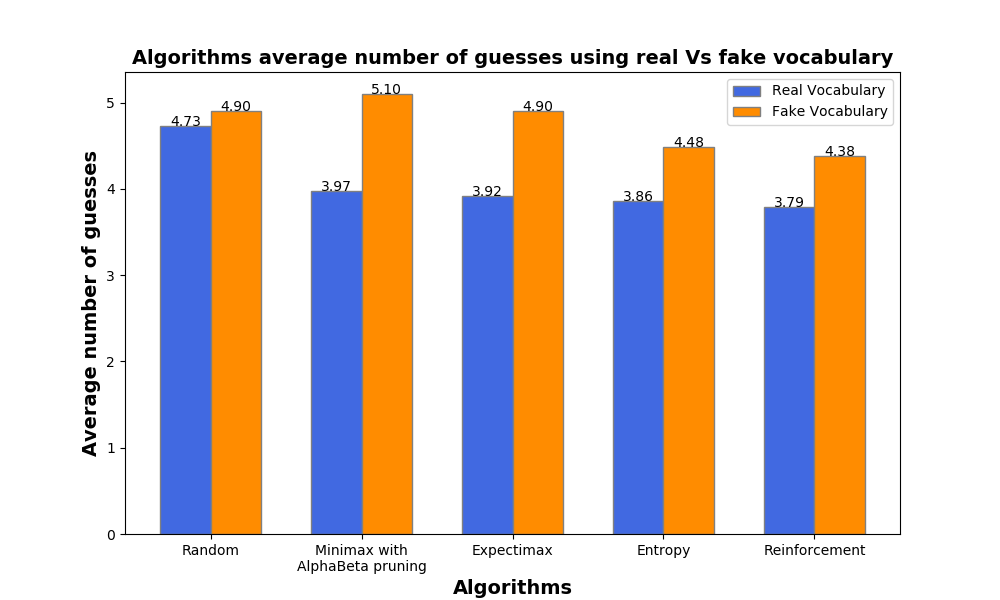
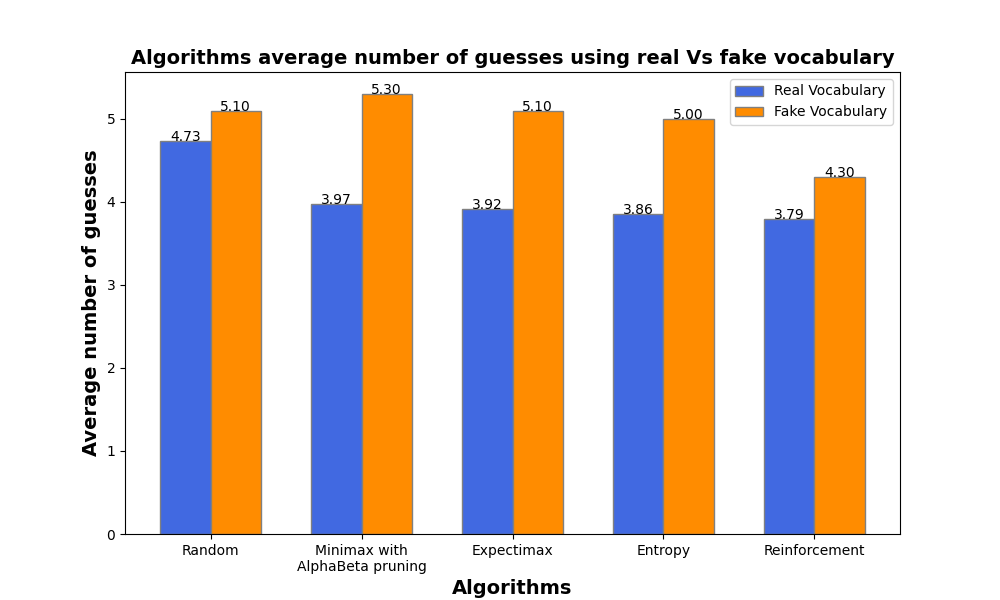
More graphs

diff --git a/algorithms_evaluation.py b/algorithms_evaluation.py
@@ -14,7 +14,7 @@ def plot_avg_guesses(algorithm_names, avg_results, game_type, num_games):
     for i in range(len(algorithm_names)):
         plt.text(i, avg_results[i], "{:.2f}".format(avg_results[i]), ha='center')
     plt.title(f"Algorithms average number of guesses on {game_type} game for {num_games} games",
-              fontweight='bold', fontsize=14)
+        fontweight='bold', fontsize=14)
     plt.ylabel("Average number of guesses", fontweight='bold', fontsize=14)
     plt.xlabel("Algorithms", fontweight='bold', fontsize=14)
     plt.savefig(f"data/plots/{game_type}_avg_guesses")
@@ -46,7 +46,7 @@ def plot_num_guesses(algorithm_names, num_guesses, game_type):
 
 
 def plot_real_vs_fake(algorithm_names, results_real, results_fake):
-    bar_width = 1/3
+    bar_width = 1 / 3
     plt.subplots(figsize=(10, 6))
 
     # Set position of bar on X axis
@@ -58,12 +58,12 @@ def plot_real_vs_fake(algorithm_names, results_real, results_fake):
         plt.text(i, results_real[i], "{:.2f}".format(results_real[i]), ha='center')
     plt.bar(br2, results_fake, color='darkorange', width=bar_width, edgecolor='grey', label='Fake Vocabulary')
     for i in range(len(results_fake)):
-        plt.text(i+0.333, results_fake[i], "{:.2f}".format(results_fake[i]), ha='center')
+        plt.text(i + 0.333, results_fake[i], "{:.2f}".format(results_fake[i]), ha='center')
 
     plt.title("Algorithms average number of guesses using real Vs fake vocabulary", fontweight='bold', fontsize=14)
     plt.xlabel("Algorithms", fontweight='bold', fontsize=14)
     plt.ylabel("Average number of guesses", fontweight='bold', fontsize=14)
-    plt.xticks([r + bar_width/2 for r in range(len(results_real))], algorithm_names)
+    plt.xticks([r + bar_width / 2 for r in range(len(results_real))], algorithm_names)
     plt.legend()
     plt.savefig("data/plots/real_vs_fake_avg_guesses")
     plt.show()
@@ -76,10 +76,10 @@ def plot_reinforcement_results():
     plt.bar(methods, results, color='royalblue')
     for i in range(len(results)):
         plt.text(i, results[i], "{:.2f}".format(results[i]), ha='center')
-    plt.title("Different RL methods results on Wordle game",fontweight='bold', fontsize=14)
+    plt.title("Different RL methods results on Wordle game", fontweight='bold', fontsize=14)
     plt.ylabel("Average number of guesses", fontweight='bold', fontsize=14)
     plt.xlabel("Reinforcement techniques", fontweight='bold', fontsize=14)
-    plt.ylim([0,6])
+    plt.ylim([0, 6])
     plt.savefig(f"data/plots/Reinforcement_results")
     plt.show()
 
@@ -91,10 +91,10 @@ def plot_entropy_results():
     plt.bar(methods, results, color='royalblue')
     for i in range(len(results)):
         plt.text(i, results[i], "{:.2f}".format(results[i]), ha='center')
-    plt.title("Entropy based techniques results on Wordle game",fontweight='bold', fontsize=14)
+    plt.title("Entropy based techniques results on Wordle game", fontweight='bold', fontsize=14)
     plt.ylabel("Average number of guesses", fontweight='bold', fontsize=14)
     plt.xlabel("Reinforcement techniques", fontweight='bold', fontsize=14)
-    plt.ylim([0,6])
+    plt.ylim([0, 6])
     plt.savefig(f"data/plots/Entropy_results")
     plt.show()
 
@@ -103,7 +103,7 @@ def plot_adversarial_results():
     methods = ["Number of remaining words", "Game turn number", "Summing the game score"]
     minimax_results = [3.9, 3.99, 4.08]
     expectimax_results = [3.86, 3.84, 3.93]
-    bar_width = 1/3
+    bar_width = 1 / 3
     plt.subplots(figsize=(10, 6))
 
     # Set position of bar on X axis
@@ -115,13 +115,13 @@ def plot_adversarial_results():
         plt.text(i, minimax_results[i], "{:.2f}".format(minimax_results[i]), ha='center')
     plt.bar(br2, expectimax_results, color='darkorange', width=bar_width, edgecolor='grey', label='Expectimax')
     for i in range(len(expectimax_results)):
-        plt.text(i+0.333, expectimax_results[i], "{:.2f}".format(expectimax_results[i]), ha='center')
+        plt.text(i + 0.333, expectimax_results[i], "{:.2f}".format(expectimax_results[i]), ha='center')
 
     plt.title("Algorithms average number of guesses using real Vs fake vocabulary", fontweight='bold', fontsize=14)
     plt.xlabel("Algorithms", fontweight='bold', fontsize=14)
     plt.ylabel("Average number of guesses", fontweight='bold', fontsize=14)
-    plt.xticks([r + bar_width/2 for r in range(len(minimax_results))], methods)
-    plt.ylim([0,6])
+    plt.xticks([r + bar_width / 2 for r in range(len(minimax_results))], methods)
+    plt.ylim([0, 6])
     plt.legend()
     plt.savefig("data/plots/Adversarial_guesses")
     plt.show()
@@ -130,8 +130,8 @@ def plot_adversarial_results():
 def evaluate_wordle(game: AbstractWordle, algorithms, algorithm_names, num_games, secret_words=None):
     avg_results = []
     win_percentage = []
-    if game.get_type() != GameType.BasicWordle:
-        if game.get_type() == GameType.FakeVocabularyWordle:
+    if game.get_type()!=GameType.BasicWordle:
+        if game.get_type()==GameType.FakeVocabularyWordle:
             with open('data/vocab_word_lists/fake_secret_12972.txt', 'r') as f:
                 secret_words = f.read().splitlines()
             secret_words = random.sample(secret_words, num_games)
@@ -151,7 +151,7 @@ def evaluate_absurdle(game: AbstractWordle, algorithms, algorithm_names):
     num_guesses = []
     for algorithm in algorithms:
         simulator = Simulator(game, algorithm)
-        if algorithm.type == AlgorithmType.Random:
+        if algorithm.type==AlgorithmType.Random:
             cum_stats = simulator.simulate_games(num_games=100, user_interface=False)
             num_guesses.append(cum_stats[1] / 100)
         else:
@@ -164,21 +164,36 @@ def evaluate_vocab(secret_words, legal_words, algorithms):
     vocabulary_sizes = list(range(1000, 12001, 1000)) + [12972]
     num_games = 100
     plt.figure(figsize=(10, 6))
-    for algorithm in algorithms:
-        avg_results = []
-        for vocab_size in vocabulary_sizes:
-            vocab_wordle = get_game(secret_words, legal_words, GameType.RealVocabularyWordle, real_size=vocab_size)
-            simulator = Simulator(vocab_wordle, algorithm)
-            cum_stats = simulator.simulate_games(num_games=num_games, user_interface=False)
-            avg_results.append(cum_stats[1] / num_games)
-            print(algorithm.type.value, ",", vocab_size, ",", avg_results[-1])
+    total_random = [5.96, 6, 6, 6, 6, 6, 6, 6, 6, 6, 6, 6, 6]
+    random = [3.52, 3.87, 4.14, 4.14, 4.26, 4.41, 4.41, 4.45, 4.44, 4.68, 4.51, 4.72, 4.8]
+    alphabeta = [2.76, 3.11, 3.27, 3.51, 3.48, 3.54, 3.76, 3.66, 3.75, 3.77, 4, 3.94, 3.91]
+    expectimax = [2.72, 3, 3.27, 3.42, 3.59, 3.62, 3.71, 3.74, 3.8, 3.81, 3.95, 3.77, 3.9]
+    Entropy = [2.92, 3.06, 3.3, 3.4, 3.57, 3.54, 3.57, 3.78, 3.63, 3.79, 3.76, 3.75, 3.77]
+    Frq = [2.86, 3.05, 3.31, 3.29, 3.46, 3.51, 3.5, 3.58, 3.53, 3.67, 3.76, 3.66, 3.62]
+    RL = [2.86, 3.07, 3.35, 3.28, 3.83, 3.67, 3.67, 3.55, 3.98, 3.62, 4.18, 3.81, 3.81]
 
-        plt.plot(vocabulary_sizes, avg_results, label=algorithm.type.value)
+    # for algorithm in algorithms:
+    #     avg_results = []
+    #     for vocab_size in vocabulary_sizes:
+    #         vocab_wordle = get_game(secret_words, legal_words, GameType.RealVocabularyWordle, real_size=vocab_size)
+    #         simulator = Simulator(vocab_wordle, algorithm)
+    #         cum_stats = simulator.simulate_games(num_games=num_games, user_interface=False)
+    #         avg_results.append(cum_stats[1] / num_games)
+    #         print(algorithm.type.value, ",", vocab_size, ",", avg_results[-1])
+    #
+    #     plt.plot(vocabulary_sizes, avg_results, label=algorithm.type.value)
+    plt.plot(vocabulary_sizes, total_random, label="Total Random")
+    plt.plot(vocabulary_sizes, random, label="Random")
+    plt.plot(vocabulary_sizes, alphabeta, label="AlphaBeta pruning")
+    plt.plot(vocabulary_sizes, expectimax, label="Expectimax")
+    plt.plot(vocabulary_sizes, Entropy, label="Entropy")
+    # plt.plot(vocabulary_sizes, Frq, label="Entroyp with Frequency")
+    plt.plot(vocabulary_sizes, random, label="Q-learning")
     plt.title("Algorithms avg number of guesses as a function of the real vocabulary size")
     plt.ylabel("Avg number of guesses")
     plt.xlabel("Vocabulary size")
     plt.legend(loc='upper left')
-    plt.savefig("data/plots/vocab_wordle_avg_guesses")
+    plt.savefig("data/plots/vocab_wordle_avg_guesses2")
     plt.show()
 
 
@@ -187,9 +202,9 @@ def main():
     secret_words, legal_words = load_word_lists()
     games_dictionary = get_game_dictionary(secret_words, legal_words)
     algorithms_dictionary = get_algorithms_dictionary(games_dictionary[GameType.BasicWordle.value])
-    algorithms = [algorithm for algorithm in algorithms_dictionary.values() if algorithm.type != AlgorithmType.Minimax]
+    algorithms = [algorithm for algorithm in algorithms_dictionary.values() if algorithm.type!=AlgorithmType.Minimax]
     algorithm_names = [algorithm_type.value for algorithm_type in AlgorithmType if
-                       algorithm_type != AlgorithmType.Minimax]
+                       algorithm_type!=AlgorithmType.Minimax]
     # wordle_game = games_dictionary[GameType.BasicWordle.value]
     # evaluate_wordle(wordle_game, algorithms, algorithm_names, len(secret_words), secret_words)
     # absurdle_game = games_dictionary[GameType.Absurdle.value]
@@ -202,16 +217,12 @@ def main():
     # fake_game = games_dictionary[GameType.FakeVocabularyWordle.value]
     # evaluate_wordle(fake_game, algorithms, algorithm_names, 10, secret_words)
 
-
 def plot():
-    # algorithm_names = ["Random", "Minimax with\nAlphaBeta pruning", "Expectimax", "Entropy", "Reinforcement"]
-    # avg_results_real = [4.73, 3.97, 3.92, 3.86, 3.79]
-    # avg_results_fake = [4.9, 5.1, 4.9, 4.48, 4.38]
-    # plot_real_vs_fake(algorithm_names, avg_results_real, avg_results_fake)
-    plot_reinforcement_results()
-    plot_entropy_results()
-    plot_adversarial_results()
+    algorithm_names = ["Random", "Minimax with\nAlphaBeta pruning", "Expectimax", "Entropy", "Reinforcement"]
+    avg_results_real = [4.73, 3.97, 3.92, 3.86, 3.79]
+    avg_results_fake = [5.1, 5.3, 5.1, 5, 4.3]
+    plot_real_vs_fake(algorithm_names, avg_results_real, avg_results_fake)
 
 
-if __name__ == '__main__':
-    main()
+if __name__=='__main__':
+    evaluate_vocab(None,None,None)

diff --git a/main.py b/main.py
@@ -19,10 +19,10 @@ def parse_args():
     parser.add_argument('-u', '--user-interface', type=bool, default=DEFAULT_IS_WITH_GUI, help='show pygame interface')
     parser.add_argument('-g', '--game', type=str,
                         choices=[game_type.value for game_type in GameType],
-                        default=GameType.FakeVocabularyWordle.value, help='which game to use')
+                        default=GameType.RealVocabularyWordle.value, help='which game to use')
     parser.add_argument('-a', '--algorithm', type=str,
                         choices=[algorithm_type.value for algorithm_type in AlgorithmType],
-                        default=AlgorithmType.AlphaBeta.value, help='which algorithm to use')
+                        default=AlgorithmType.Entropy.value, help='which algorithm to use')
     parser.add_argument('--seed', type=int, default=42, help='random seed. -1 for system time.')
     return parser.parse_args()
 
@@ -39,7 +39,7 @@ def main():
     secret_words, legal_words = load_word_lists()
 
     # select game
-    game = get_game(secret_words, legal_words, args.game)
+    game = get_game(secret_words, legal_words, args.game, real_size=12000)
 
     # select algorithm
     algorithm = get_algorithm(args.algorithm, game)
